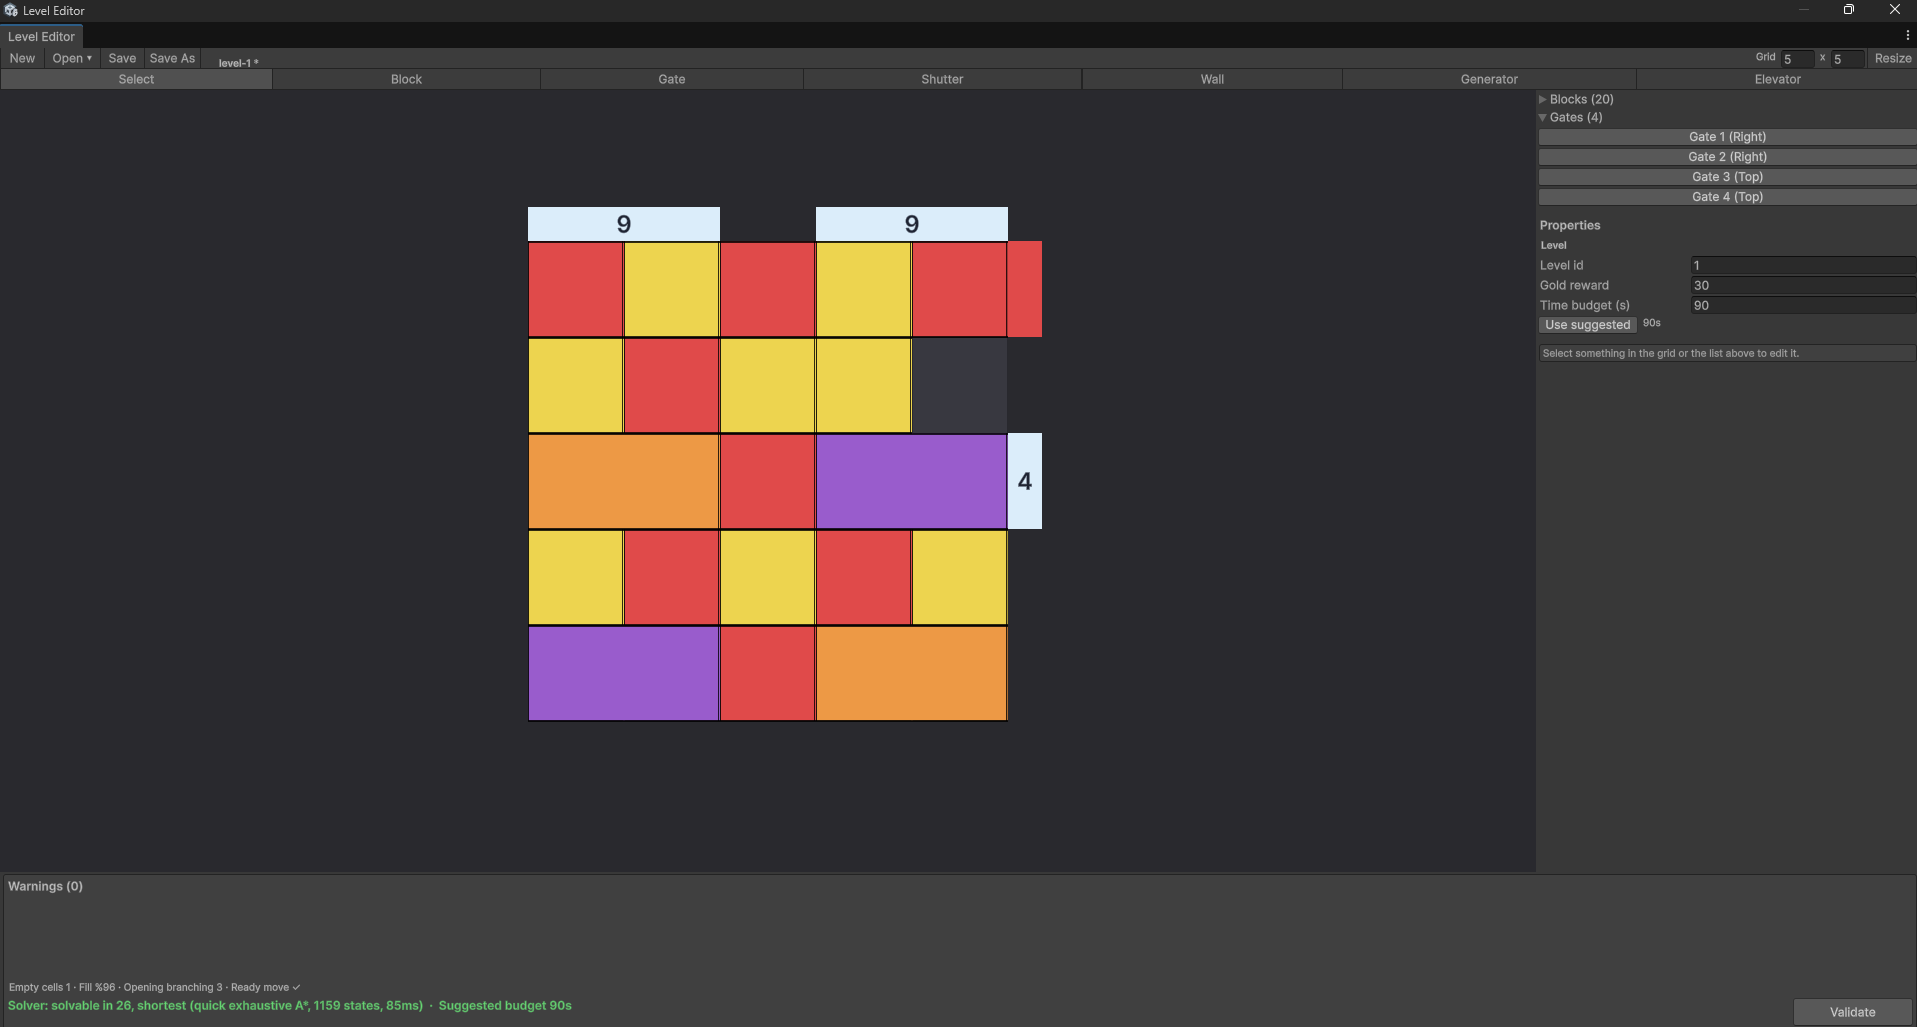
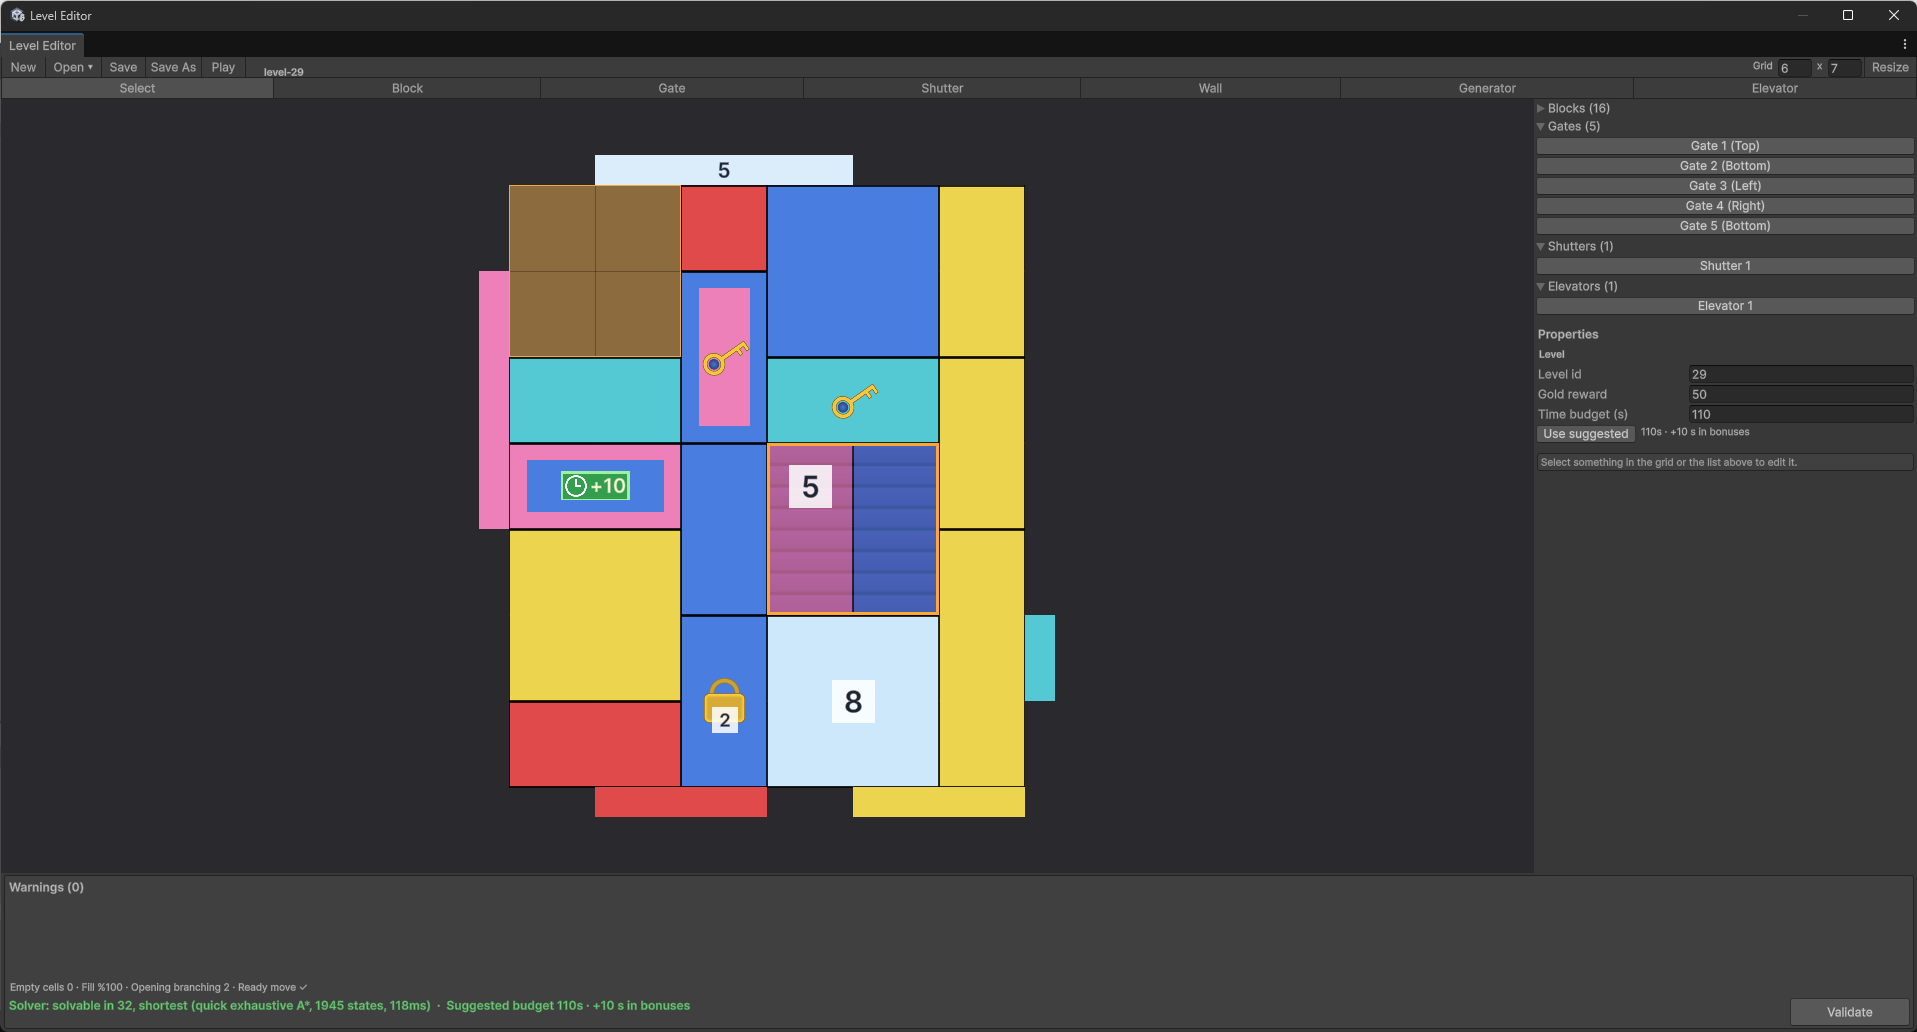
docs(readme): new gameplay GIF, screens and level editor image
gameplay.gif is re-recorded from the finished game: level 30 from the first move to Level Complete with gold flying to its counter, 360x640 at 12 fps, 34 s.

A Screens section shows five images from the itch.io page: Home with the town painting, a late level, an introduction card, the win panel and the Store.

editor-overview.png shows level 29 in the Level Editor, and the text under it now quotes its footer: solvable in 32, shortest.

diff --git a/README.md b/README.md
@@ -50,6 +50,16 @@ is a countdown. Nine more mechanics layer on top: count-gated gates and
 blocks, layered colour stacks, shutters, block generators, elevators, axis
 restrictions, lock-and-key pairs, and time bonuses.
 
+## Screens
+
+<p align="center">
+  <img src="docs/media/screens/01-home.png" alt="Home: the town painting, the top bar and the win streak" width="150">
+  <img src="docs/media/screens/02-level.png" alt="A late level with keys, a lock, a shutter, ice and a time bonus" width="150">
+  <img src="docs/media/screens/03-card.png" alt="The introduction card for layered blocks" width="150">
+  <img src="docs/media/screens/04-win.png" alt="Level Complete, with gold flying to its counter" width="150">
+  <img src="docs/media/screens/05-store.png" alt="The Store's gold packs, bought through a simulated purchase service" width="150">
+</p>
+
 ## What is interesting about it
 
 **The rules do not know Unity exists.** Board logic, search and the
@@ -98,8 +108,8 @@ older versions forward.
 Every mechanic is authored in one editor window: blocks, gates, shutters,
 walls, generators and elevator waves. Warnings update live as the level is
 built, and **Validate** runs the solver off the main thread. The footer above
-reads *solvable in 26, shortest*, with the states explored, the time taken and
-the countdown the level should get.
+reads *solvable in 32, shortest* for level 29, with the states explored, the
+time taken and the countdown the level should get.
 
 <p align="center">
   <img src="docs/media/editor-warnings.png" alt="The level editor's live warnings on a level with authoring mistakes">
